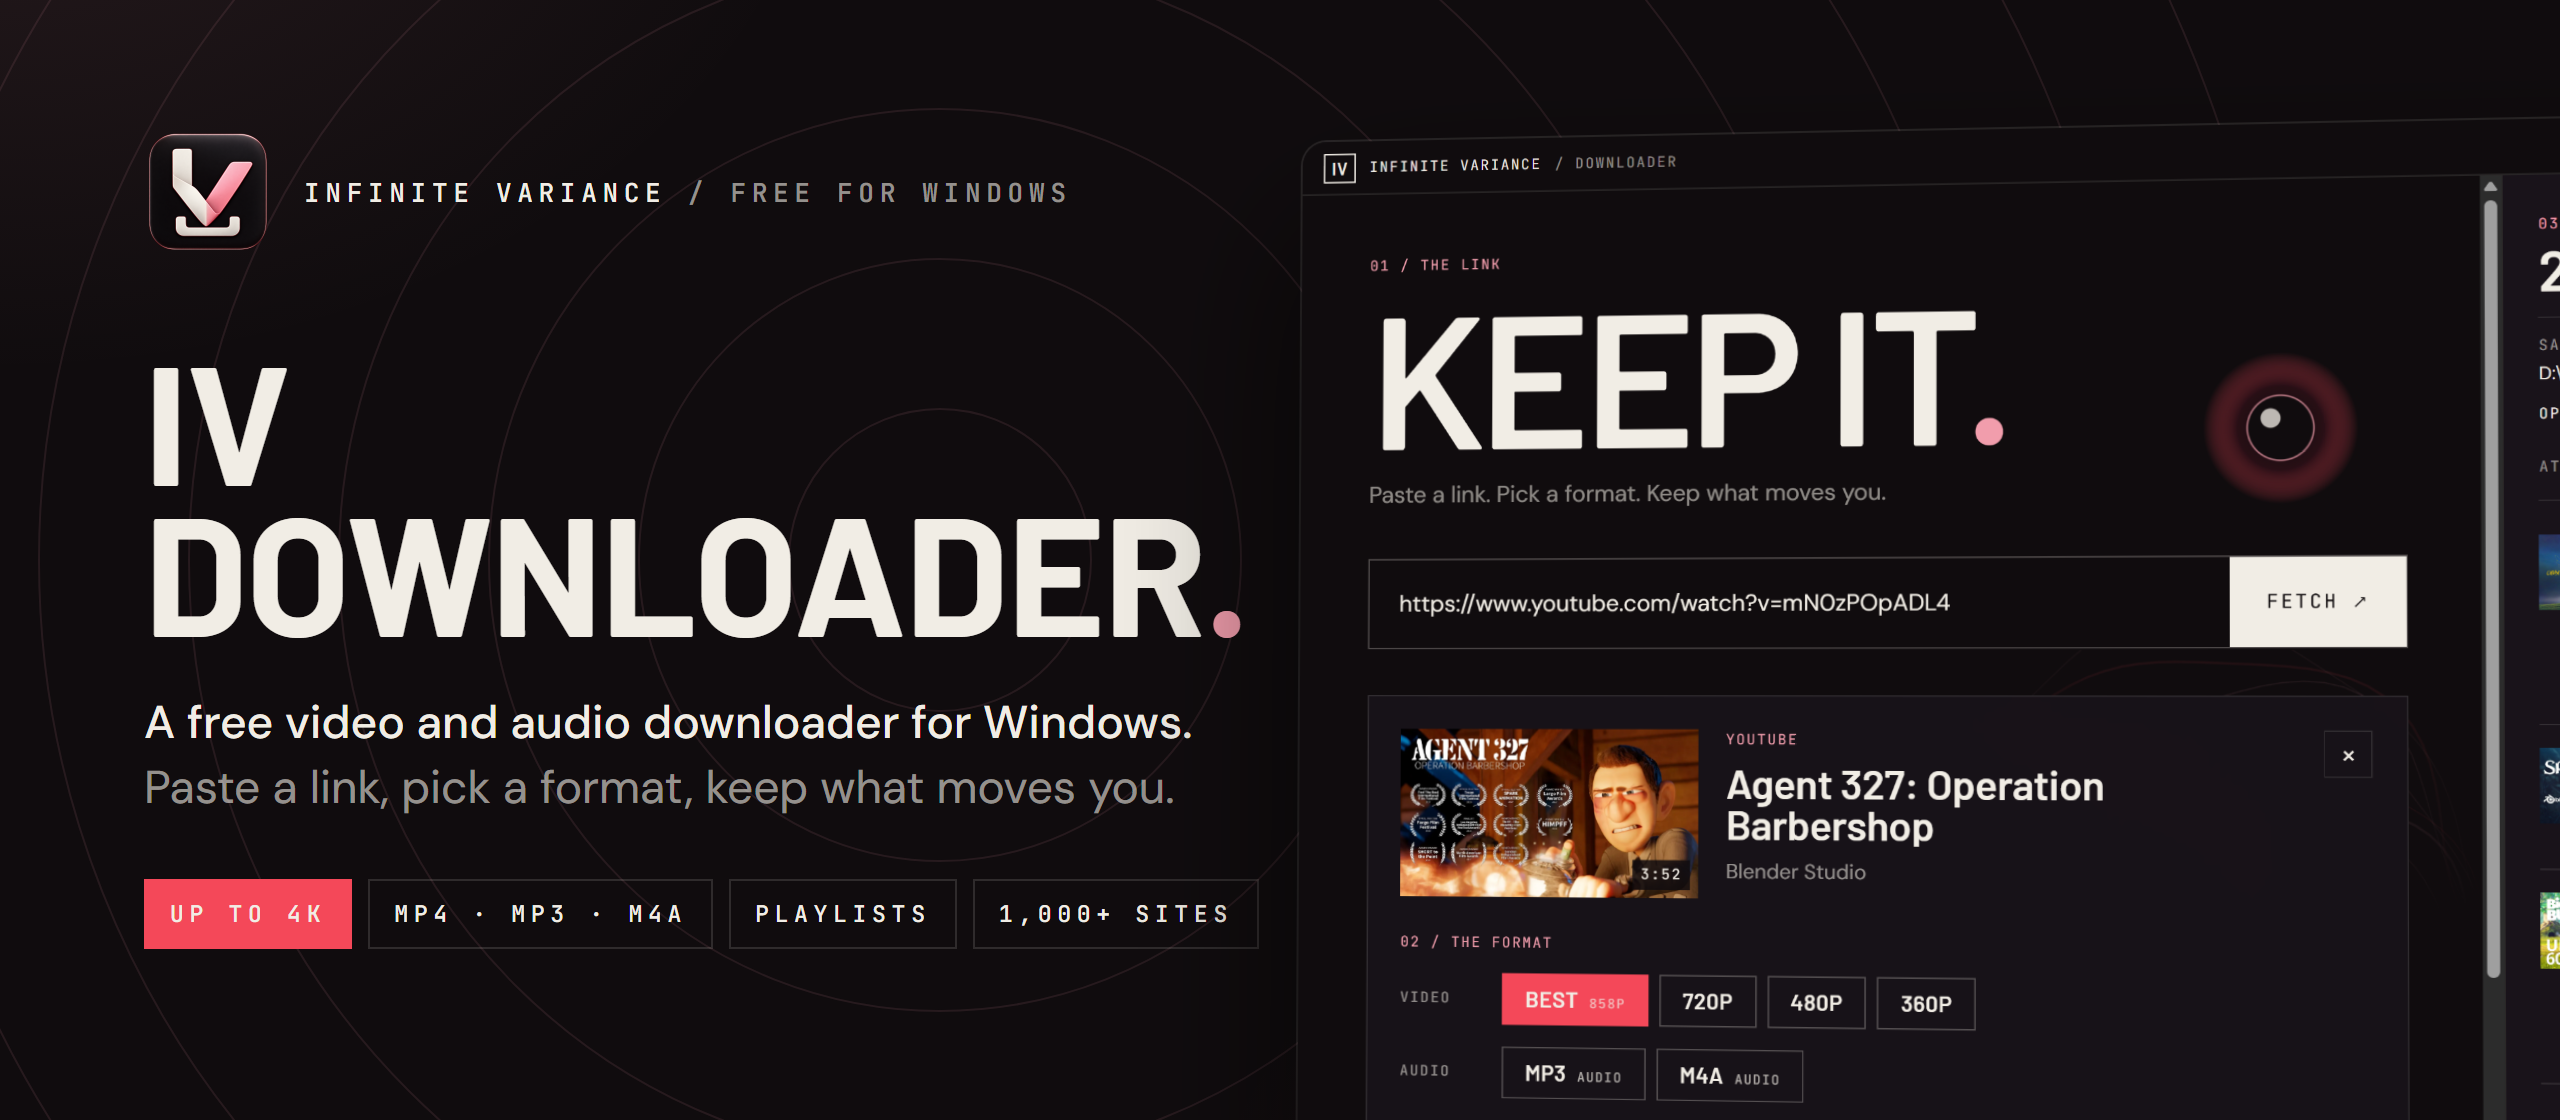
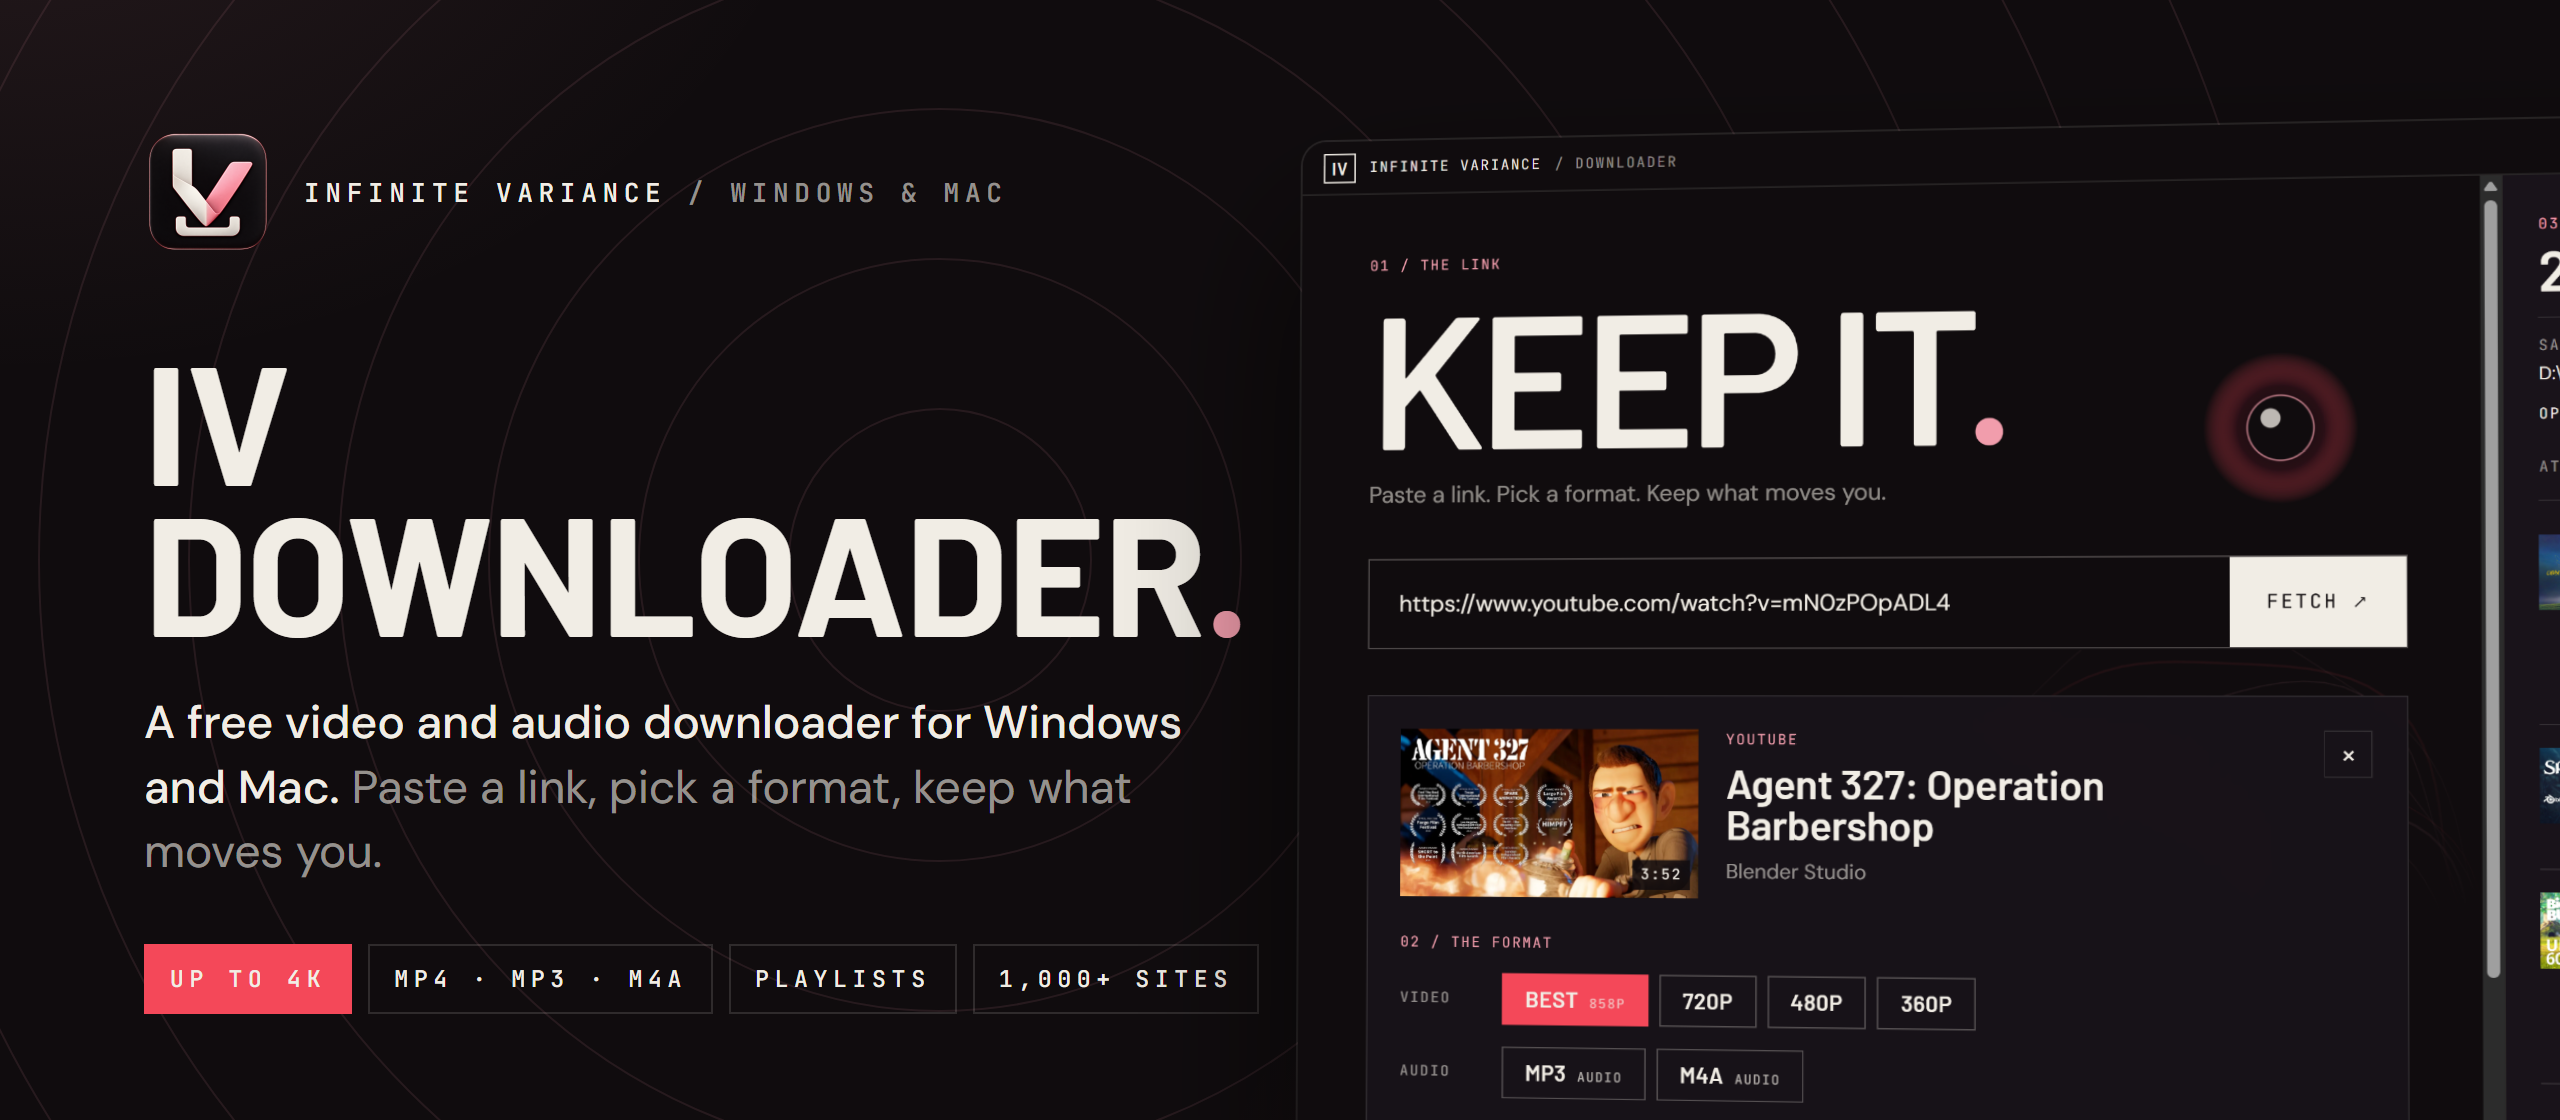
macOS release pipeline, notices and docs; fix sideways scroll
- Release workflow: one draft job, then Windows and both Mac builds
  upload to it; the Mac update files are merged into one latest-mac.yml.
  Developer ID signing + notarization kick in when the Apple secrets
  exist, otherwise ad-hoc builds with ALLOW_UNSIGNED.
- Ad-hoc Mac builds turn hardened runtime off (it is for notarized
  builds, and with an ad-hoc signature it can block launch).
- THIRD_PARTY_NOTICES: the macOS ffmpeg builds and their sources.
- README, CHANGELOG, CODE-SIGNING: Mac install steps, Gatekeeper
  "Open Anyway", Apple Developer ID hand-off; banner says Windows & Mac.
- Fixed: below 1040px the decorative rings widened the page and showed
  a horizontal scrollbar.

Changed region(s): [[0.0312, 0.75, 0.5, 0.9062], [0.0312, 0.6875, 0.4688, 0.7188], [0.2812, 0.1562, 0.4062, 0.1875]]

diff --git a/src/renderer/src/components/Engine.jsx b/src/renderer/src/components/Engine.jsx
@@ -49,7 +49,7 @@ export default function Engine({ engine, onEngine }) {
             <p className="mono label">00 / The engine</p>
             <h2 className="title">Warming up.</h2>
             <p className="dim">
-              Fetching the latest official yt-dlp build (about 18 MB) and verifying its checksum. This happens once.
+              Fetching the latest official yt-dlp build and verifying its checksum. This happens once.
             </p>
             {progress && (
               <div className="bar">

diff --git a/src/renderer/src/styles.css b/src/renderer/src/styles.css
@@ -948,6 +948,7 @@ button.frow-on:hover {
   }
   .stage {
     overflow: visible;
+    overflow-x: clip; /* the rings in .field would otherwise widen the page */
     border-right: 0;
   }
   .queue {

diff --git a/README.md b/README.md
@@ -1,9 +1,11 @@
 <p align="center">
-  <img src="docs/images/banner.png" alt="IV Downloader: a free video and audio downloader for Windows" width="100%">
+  <img src="docs/images/banner.png" alt="IV Downloader: a free video and audio downloader for Windows and Mac" width="100%">
 </p>
 
 <p align="center">
   <a href="https://github.com/hollisorg/iv-downloader/releases/latest/download/IV-Downloader-Setup.exe"><b>Download for Windows</b></a>
+  &nbsp;·&nbsp;
+  <a href="#macos"><b>Download for Mac</b></a>
   &nbsp;·&nbsp;
   <a href="https://github.com/hollisorg/iv-downloader/releases/latest">Release notes</a>
   &nbsp;·&nbsp;
@@ -50,6 +52,8 @@ that [yt-dlp](https://github.com/yt-dlp/yt-dlp) supports. Paste a link, pick a f
 
 ## Install
 
+### Windows
+
 1. [Download `IV-Downloader-Setup.exe`](https://github.com/hollisorg/iv-downloader/releases/latest/download/IV-Downloader-Setup.exe)
    (Windows 10 or 11, 64-bit, about 200 MB).
 2. Run it. The installer isn't code-signed yet, so Windows may show **"Windows protected your PC"**.
@@ -57,8 +61,22 @@ that [yt-dlp](https://github.com/yt-dlp/yt-dlp) supports. Paste a link, pick a f
 3. It installs for your user only, with no admin rights needed, and adds Start menu and desktop shortcuts.
    Downloads go to `Downloads\IV Downloads` unless you pick another folder.
 
-On first launch the app fetches the latest `yt-dlp.exe` (about 18 MB) and keeps it in
-`%APPDATA%\IV Downloader\bin`.
+### macOS
+
+1. Download the build for your Mac (macOS 12 or later):
+   [Apple Silicon (M1 and later)](https://github.com/hollisorg/iv-downloader/releases/latest/download/IV-Downloader-mac-arm64.dmg)
+   or [Intel](https://github.com/hollisorg/iv-downloader/releases/latest/download/IV-Downloader-mac-x64.dmg).
+   Not sure? Apple menu → **About This Mac**: "Chip: Apple M…" means Apple Silicon.
+2. Open the .dmg and drag **IV Downloader** into **Applications**.
+3. The app isn't signed with an Apple Developer ID yet, so the first open shows
+   **"Apple could not verify IV Downloader is free of malware"**. Click **Done**, then open
+   **System Settings → Privacy & Security**, scroll down and click **Open Anyway**. You only do this once.
+
+Downloads go to `Downloads/IV Downloads`. The Mac app tells you when a new version is out and links
+here, rather than updating itself.
+
+On first launch the app fetches the latest yt-dlp (about 23 MB on Windows, 36 MB on macOS) into its
+own app-data folder.
 
 Only download what you have the right to download.
 
@@ -84,9 +102,15 @@ npm run dist
 
 This writes `dist\IV-Downloader-Setup.exe`, a per-user NSIS installer. ffmpeg, ffprobe and Deno are
 unpacked next to `app.asar`; yt-dlp is fetched on first run. The installer is about 210 MB, mostly
-ffmpeg, ffprobe and Deno. Releases are built and uploaded by GitHub Actions when a version tag is
-pushed; see [docs/RELEASING.md](docs/RELEASING.md). Signing is covered in
-[docs/CODE-SIGNING.md](docs/CODE-SIGNING.md).
+ffmpeg, ffprobe and Deno.
+
+On a Mac, `npm run dist:mac` builds `dist/IV-Downloader-mac-<arch>.dmg` and `.zip` for that Mac's
+architecture (`npm ci` fetches ffmpeg and Deno for the machine it runs on, so build each architecture
+on its own kind of Mac). CI does this on GitHub's Apple Silicon and Intel runners, then launches each
+app and downloads a clip through it (`scripts/smoke-test.mjs`).
+
+Releases are built and uploaded by GitHub Actions when a version tag is pushed; see
+[docs/RELEASING.md](docs/RELEASING.md). Signing is covered in [docs/CODE-SIGNING.md](docs/CODE-SIGNING.md).
 
 ### Layout
 
@@ -109,8 +133,9 @@ passed after `--`.
 
 ### Still to do
 
-- Code signing (Azure Artifact Signing; see [docs/CODE-SIGNING.md](docs/CODE-SIGNING.md)).
-- macOS and Linux builds.
+- Code signing: Azure Artifact Signing for Windows, an Apple Developer ID and notarization for macOS
+  (see [docs/CODE-SIGNING.md](docs/CODE-SIGNING.md)).
+- Linux builds.
 
 ## Licence
 

diff --git a/docs/CODE-SIGNING.md b/docs/CODE-SIGNING.md
@@ -1,4 +1,9 @@
-# Code signing with Azure Artifact Signing
+# Code signing
+
+Windows is signed with Azure Artifact Signing (below). macOS needs an Apple Developer ID; see
+[macOS](#macos-apple-developer-id) at the end.
+
+## Windows: Azure Artifact Signing
 
 Signing puts a verified publisher name on the installer and app, so Windows SmartScreen stops
 showing "Windows protected your PC / Unknown publisher". Microsoft's service for this is
@@ -75,3 +80,44 @@ SmartScreen warning and can click *More info → Run anyway*. Remove the variabl
   until enough people have installed the app.
 - Signing doesn't stop antivirus false positives on downloader tools, though it makes them rarer. If
   one happens, submit the file to the vendor (Microsoft: https://www.microsoft.com/wdsi/filesubmission).
+
+## macOS: Apple Developer ID
+
+Until the Mac app is signed with a Developer ID and notarized by Apple, the release workflow
+publishes it **ad-hoc signed** (when `ALLOW_UNSIGNED` is `true`). It runs, but:
+
+- macOS blocks the first open with *"Apple could not verify IV Downloader is free of malware"*.
+  People click **Done**, then open **System Settings → Privacy & Security**, scroll down and click
+  **Open Anyway** next to IV Downloader. This only has to happen once.
+- The app can't update itself. It shows **Get vX ↗** in the status bar, which opens the release page.
+
+Signing and notarizing removes both. It needs a paid **Apple Developer Program** membership
+(individual or organization; check the current price at developer.apple.com/programs). An organization
+membership needs a D-U-N-S number and shows the business name.
+
+### Steps (you do these; they need your Apple account and payment)
+
+1. **Join the Apple Developer Program** at developer.apple.com/programs/enroll. Note the **Team ID**
+   (Membership details).
+2. **Create a Developer ID Application certificate.** On a Mac, in Xcode → Settings → Accounts →
+   Manage Certificates → **+** → *Developer ID Application*. (Without a Mac: create a certificate
+   signing request with OpenSSL and upload it at developer.apple.com → Certificates.)
+3. **Export it as a .p12** with a password (Keychain Access → right-click the certificate → Export).
+   Base64-encode the file: `base64 -i cert.p12 | pbcopy` on a Mac, or
+   `[Convert]::ToBase64String([IO.File]::ReadAllBytes('cert.p12'))` in PowerShell.
+4. **App-specific password** for notarization: appleid.apple.com → Sign-In and Security →
+   App-Specific Passwords.
+
+### Hand-off to the repository
+
+Secrets (*Settings → Secrets and variables → Actions*):
+| Name | Value |
+|---|---|
+| `MAC_CERT_P12_BASE64` | The base64 text of the .p12 |
+| `MAC_CERT_PASSWORD` | The .p12 export password |
+| `APPLE_ID` | The Apple ID email of the developer account |
+| `APPLE_APP_SPECIFIC_PASSWORD` | The app-specific password |
+| `APPLE_TEAM_ID` | The Team ID |
+
+The next tagged release then signs and notarizes both Mac builds. After that, flip `MANUAL` in
+`src/main/updater.js` to `false` so Macs install updates themselves like Windows does.

diff --git a/CHANGELOG.md b/CHANGELOG.md
@@ -1,5 +1,14 @@
 # Changelog
 
+## Unreleased
+
+- New: macOS app for Apple Silicon and Intel Macs (macOS 12 or later). It isn't signed with an Apple
+  Developer ID yet, so macOS asks you to approve it once, and new versions are offered as a download
+  link rather than installed automatically.
+- New: Safari sign-in on macOS.
+- Fixed: a narrow window showed a sideways scrollbar.
+- Fixed (macOS): cancelling a download now also stops the ffmpeg step behind it.
+
 ## 0.1.2 (2026-10-19, unsigned test release)
 
 - Fixed: Windows showed a blank app icon. The icon is now a classic Windows .ico that Explorer can read.
